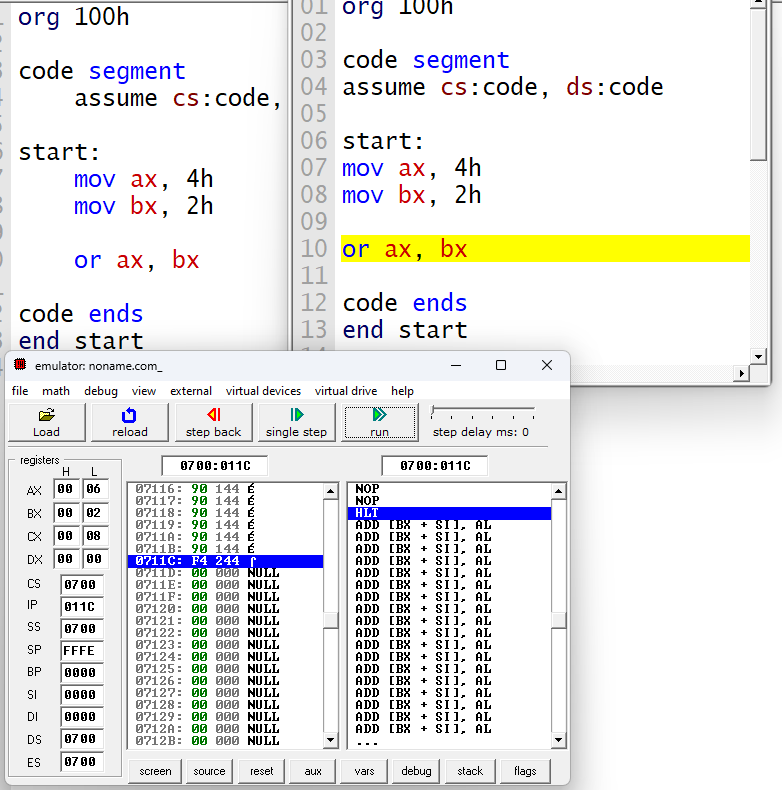
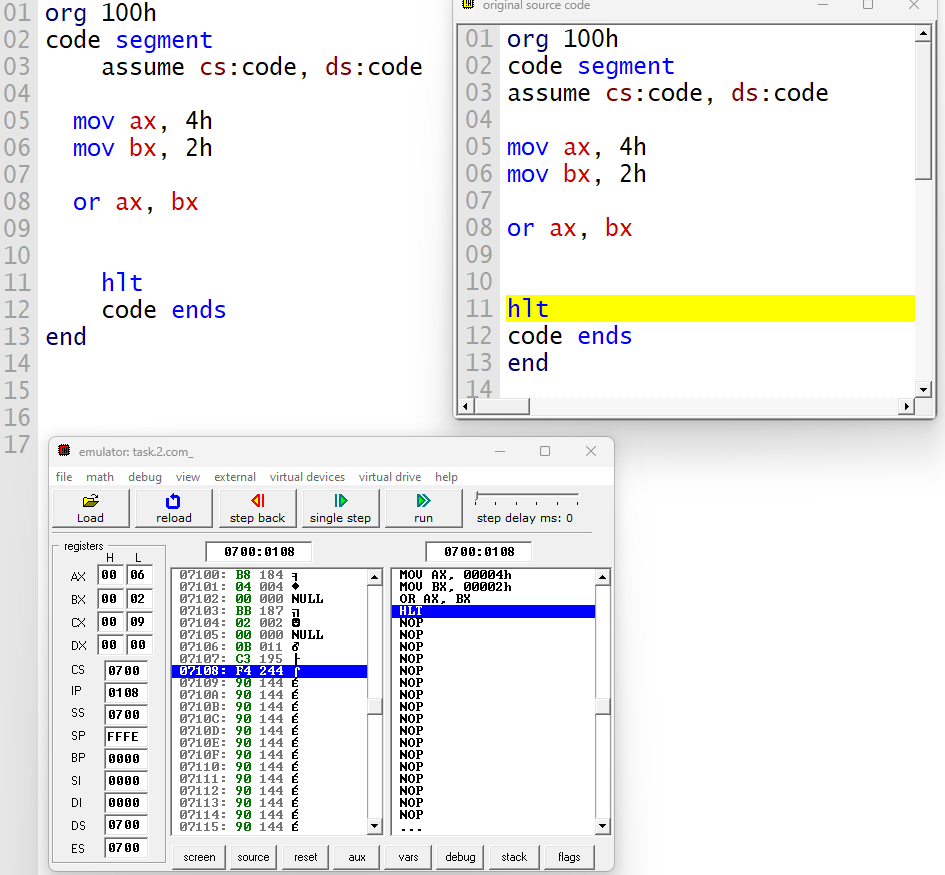
Initial commit

Changed region(s): [[0.0, 0.0, 1.0, 1.0], [0.2455, 0.2127, 0.2762, 0.2734]]

diff --git a/README.md b/README.md
@@ -161,19 +161,20 @@ in both operands are 1; otherwise, it sets the bit to 0. This operation demonstr
 - **Description:** OR between corresponding bits of the `destination` and `source`.
 - **Code:**
   ```assembly
-  org 100h
+org 100h
+code segment
+    assume cs:code, ds:code
+    
+  mov ax, 4h
+  mov bx, 2h
 
-  code segment
-  assume cs:code, ds:code
+  or ax, bx
 
-  start:
-    mov ax, 4h
-    mov bx, 2h
-
-    or ax, bx
-
-  code ends
-  end start
+    
+    hlt
+    code ends
+end
+   
   ```
   ![OR ASM](./media/or.png)
 
